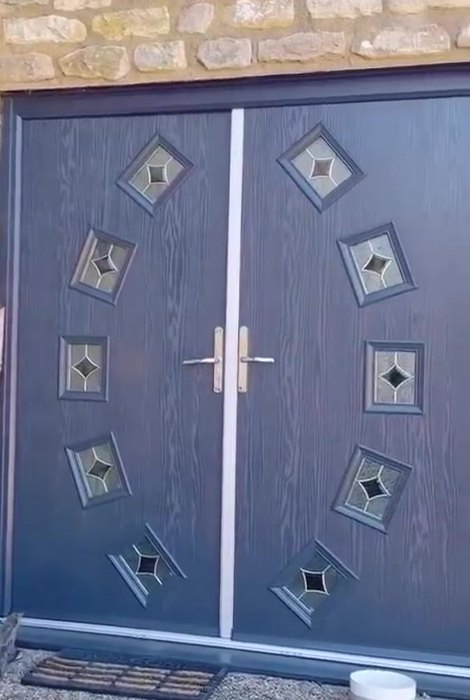
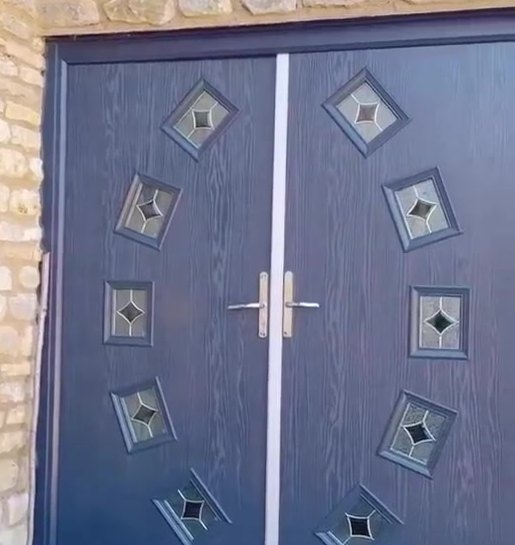
Hanslope: the door still was losing its head and threshold
The composite double door is the one gallery image cut from the film,
and at 470x700 it is 0.671, so the square cell showed 67% of its height
and the tile read as a band of handles. Same fault the owner caught on
the Drayton Parslow front door yesterday, arriving through a crop I
chose rather than a photograph I was given.

Recut to 515x545, 0.945, so the cell holds nearly all of the doorset.
Not all: the door is about 600px tall in the frame and only about 515px
of width is clear of the watermark, and a square cell can never show
more height than the source has width. Widening is the lever, not
trimming, and here the watermark caps how far it goes.

Square cell stays. This gallery mixes portrait photographs with a
landscape one, which is exactly the case the 2026-08-10 alignment rule
was written for.

diff --git a/app/public/wp-content/themes/fenster/inc/case-studies-data.php b/app/public/wp-content/themes/fenster/inc/case-studies-data.php
@@ -1365,6 +1365,17 @@ function fenster_case_studies(): array
          * and neither is in it. That the slab is composite is owner-stated; a
          * drone frame cannot prove a material.
          *
+         * ITS SHAPE IS SET BY THE CELL, AND IT IS THE ONE IMAGE HERE THAT HAD
+         * TO BE. Cut at 470x700 first, which is 0.671, and the square cell then
+         * showed 67% of its height: the doorset lost its head and its threshold
+         * and the tile read as a band of handles, the same fault the owner
+         * caught on the Drayton Parslow front door. Recut to 515x545, 0.945, so
+         * the cell holds nearly all of it. It cannot hold all: the door is
+         * about 600px tall in the frame and only about 515px of width is clear
+         * of the watermark, and a square cell can never show more height than
+         * the source has width. That is the whole arithmetic of `object-fit:
+         * cover` and it is why widening, not trimming, is the lever.
+         *
          * SQUARE GALLERY, NOT THE 3:4 CELL. Five photographs are portrait, the
          * gable shot is landscape and the door still is neither, so this
          * gallery mixes orientations and `gallery_shape` must stay off. See the
